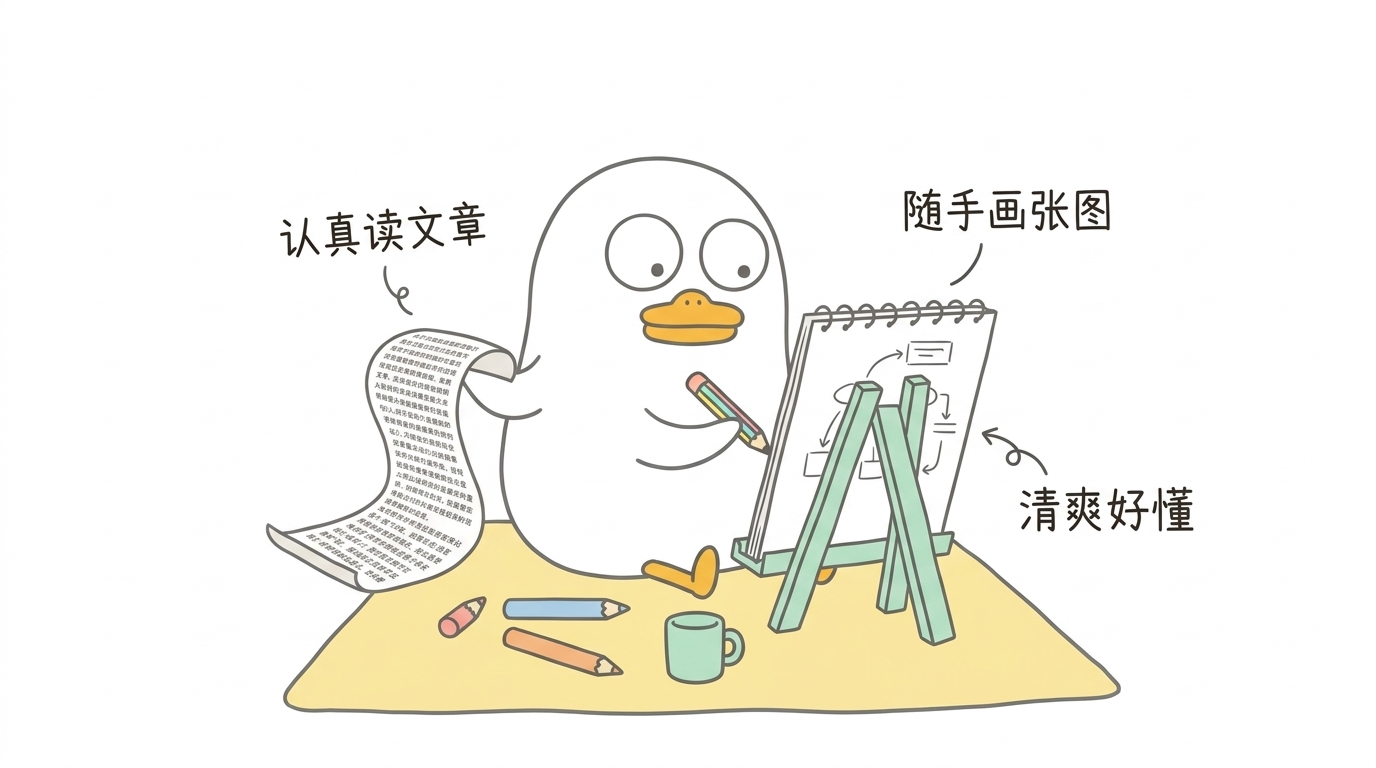
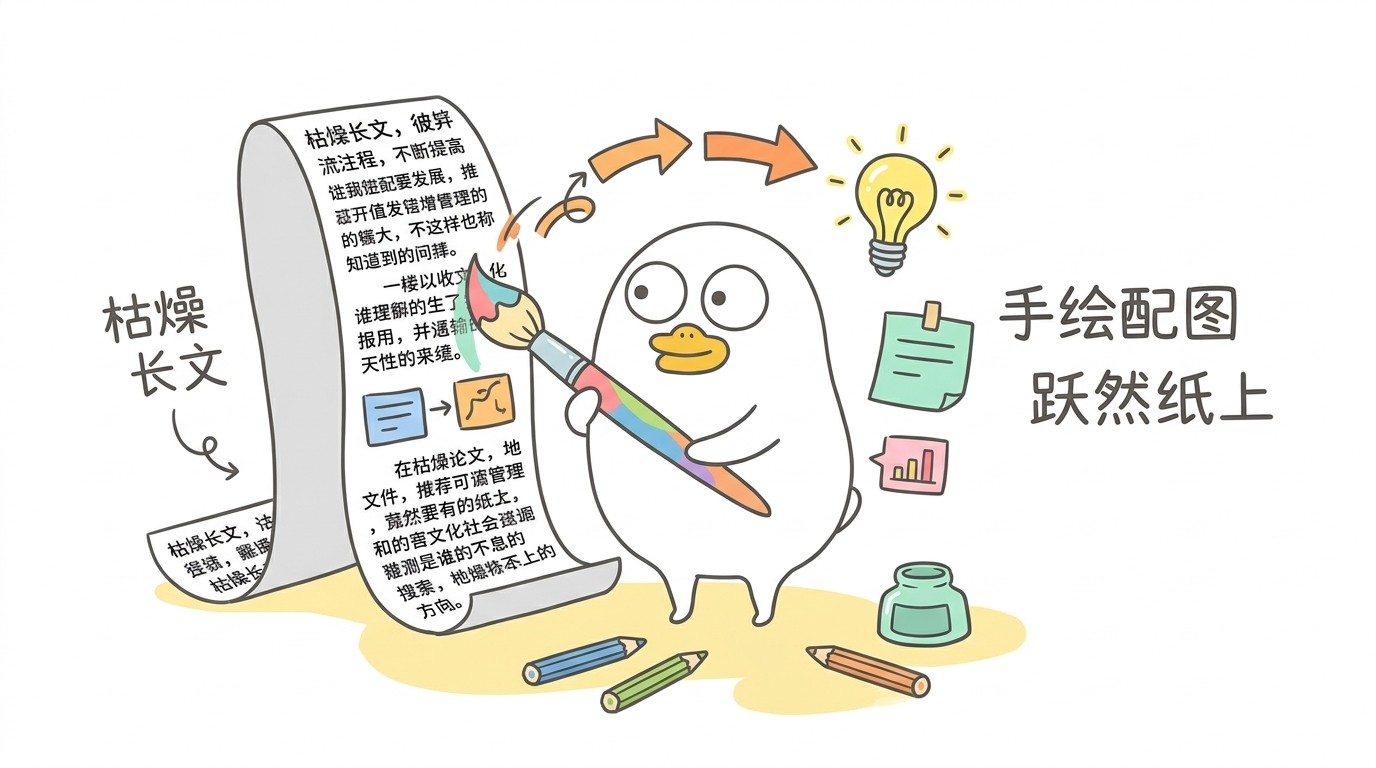
style: redesign dedicated skill cover illustration

Changed region(s): [[0.0625, 0.125, 0.9375, 0.9375], [0.75, 0.625, 0.875, 0.6875], [0.125, 0.5625, 0.1562, 0.5938]]

diff --git a/README.md b/README.md
@@ -12,7 +12,7 @@ Built upon the iconic visual language of the XiaoLiuYa emoticon, this skill tran
 
 ## Showcase Example
 
-The following illustration was generated by this skill for its own documentation, capturing XiaoLiuYa earnestly studying a long draft while casually sketching an intuitive, delightful diagram on an easel:
+The following illustration was generated by this skill as its dedicated cover showcase, capturing XiaoLiuYa wielding a colorful brush to transform a dry text scroll into intuitive, delightful visual metaphors—bringing writing to life:
 
 ![XiaoLiuYa Illustration Showcase](assets/examples/01-skill-cover.png)
 
